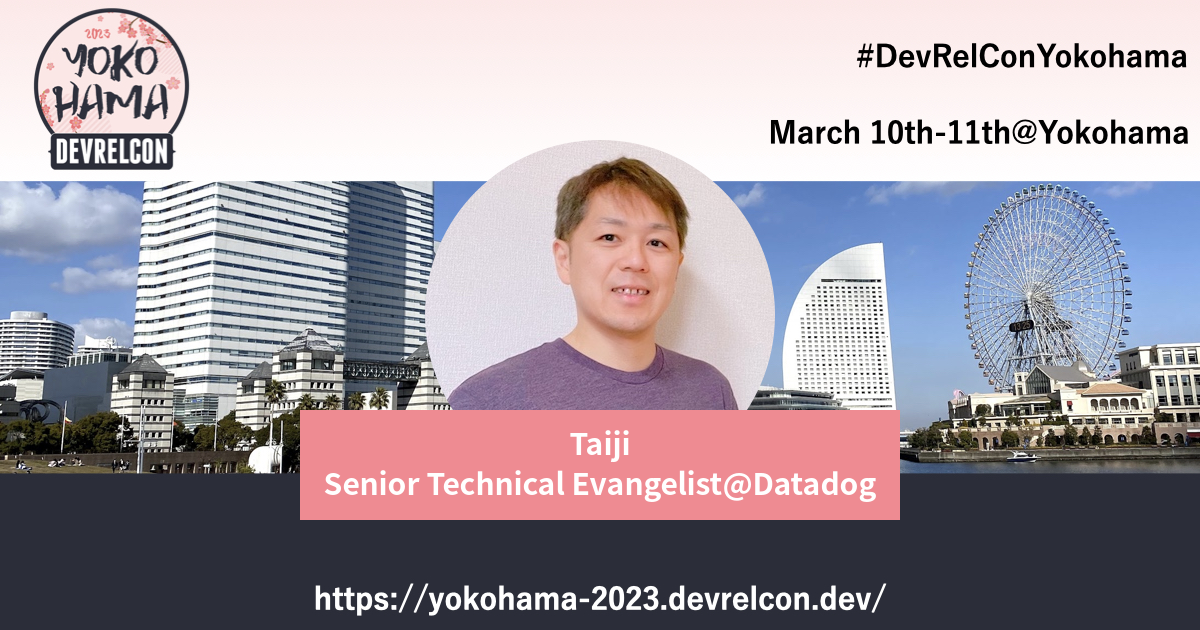
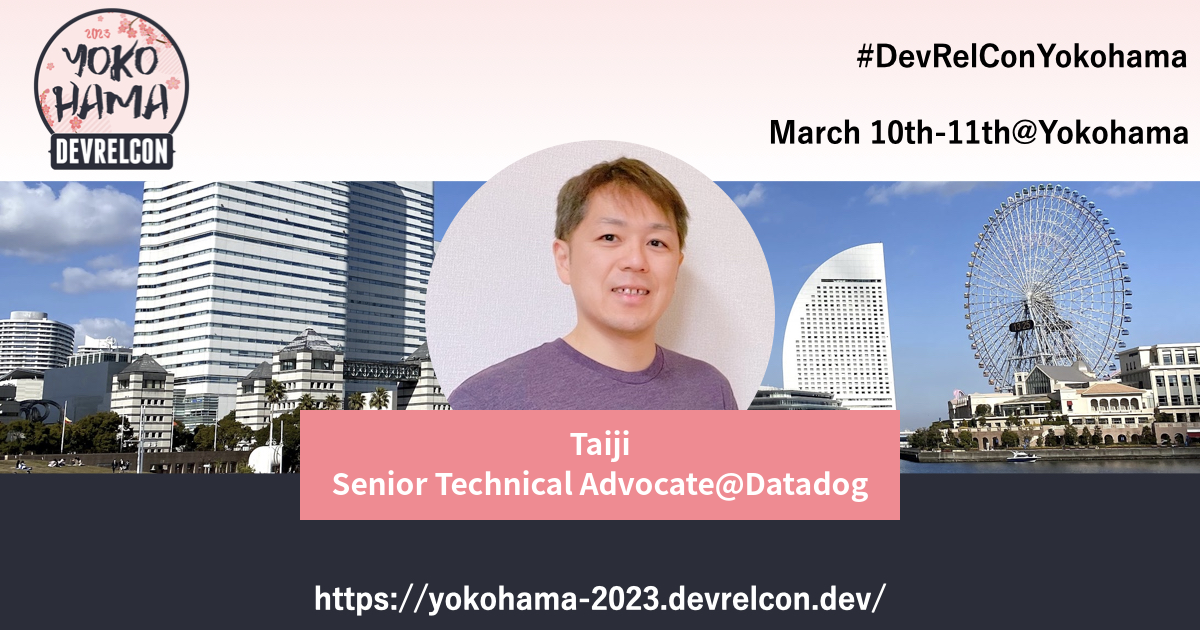
auto update

Changed region(s): [[0.2467, 0.7238, 0.74, 0.8143]]

diff --git a/organizers/taiji.md b/organizers/taiji.md
@@ -6,7 +6,7 @@ ogp: /assets/images/ogp/taiji.jpg
 type: organizer
 id: taiji
 ---
-DatadogのSenior Technical Evangelist
+DatadogのSenior Technical Advocate
 
 元美容師で元音楽家。ソフトウェアエンジニアへ転身後、受託開発やパッケージ開発を経て有限会社アキュレートシステムを起業。その後、技術者へリーチしたマーケティング、DevRel（Developer Relations）の道へシフトし、MKI（三井情報）では初のTechnical Evangelistとなる。その経験を活かしIBMではDeveloper Advocate Tokyo Teamの立ち上げをリード。OutSystemsではLead Developer Community Advocateとして活躍。筑波大学情報学群にて非常勤講師も務める。
 
